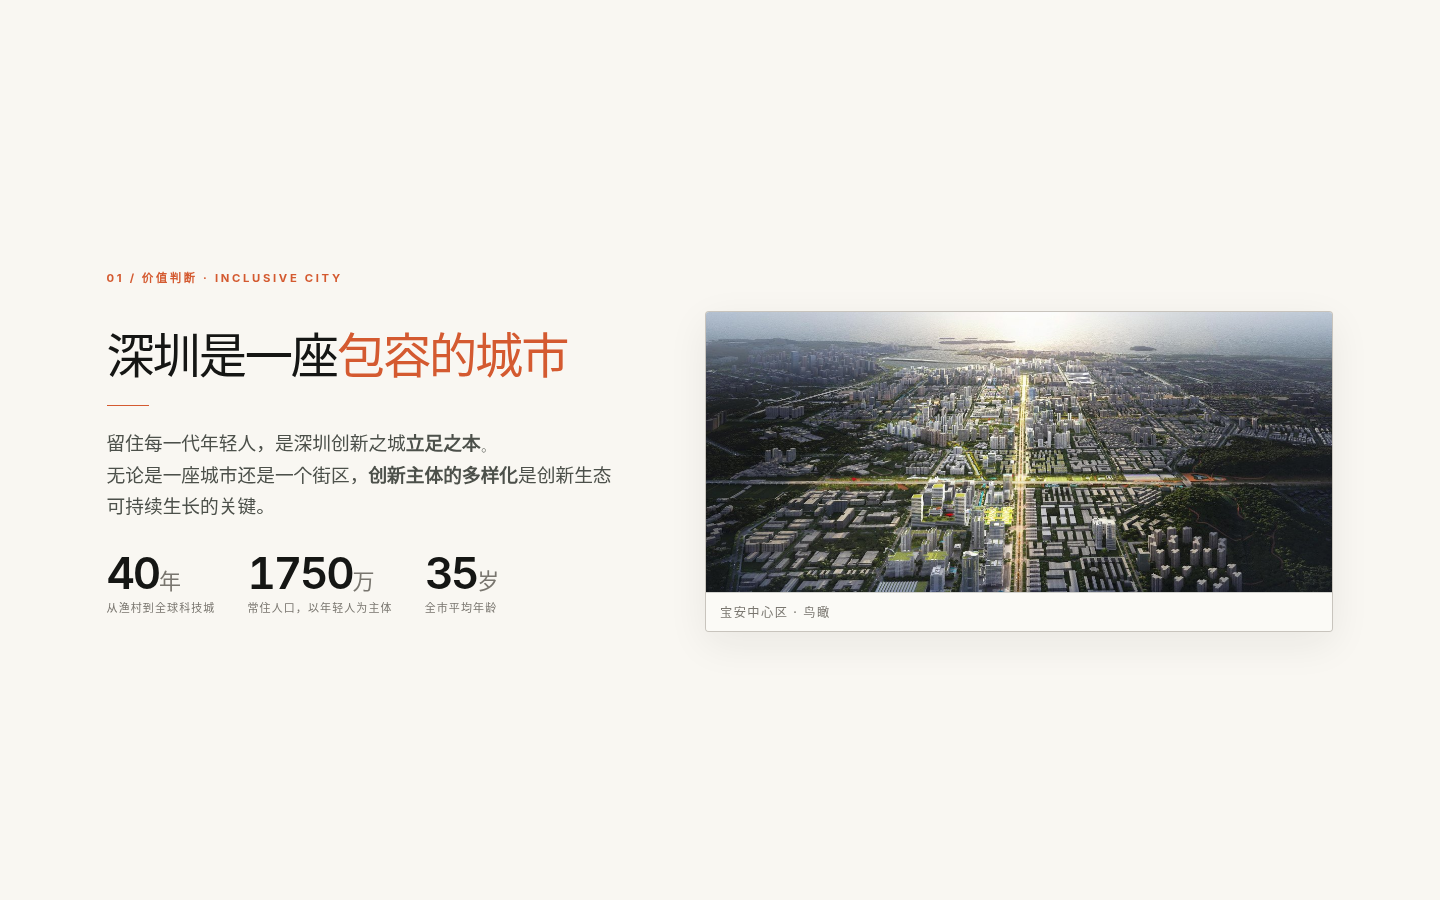
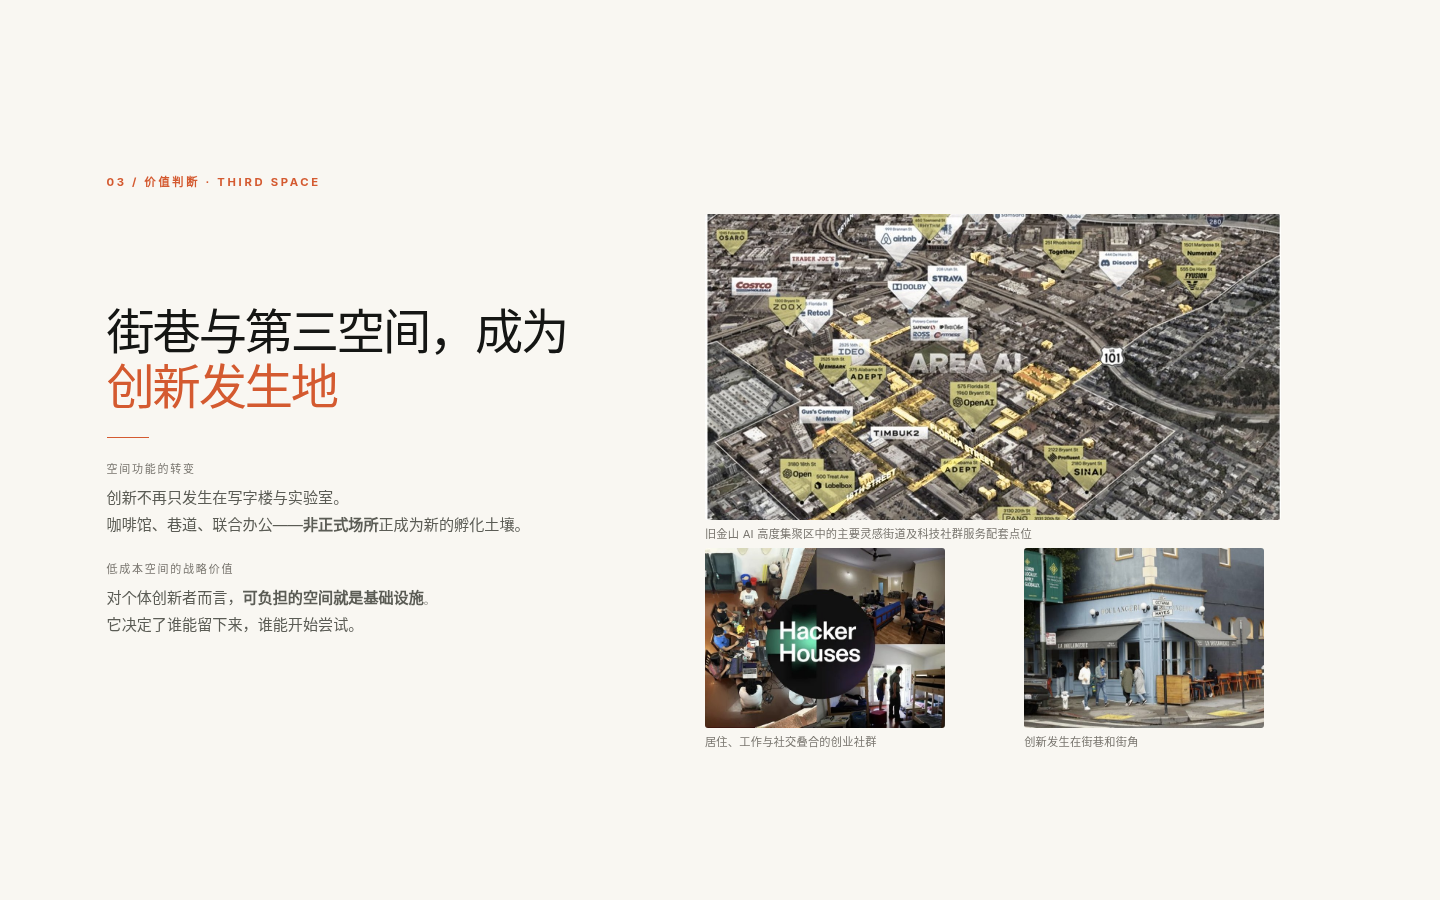
Tighten collage captions and aerial frame

diff --git a/index.html b/index.html
@@ -154,8 +154,8 @@
 
 
 .hero-visual{margin:0;border-radius:4px;overflow:hidden;border:1px solid var(--line);box-shadow:0 12px 40px rgba(35,32,25,.07);background:#efebe2;align-self:stretch;display:flex;flex-direction:column;min-height:0}
-.hero-visual img{width:100%;height:100%;object-fit:cover;display:block;min-height:280px;max-height:min(58vh,520px)}
-.hero-visual figcaption{padding:10px 14px;font-size:clamp(11px,.85vw,13px);letter-spacing:.12em;text-transform:uppercase;color:var(--muted);border-top:1px solid var(--line);background:#fbfaf6}
+.hero-visual img{width:100%;flex:1;object-fit:cover;object-position:center;display:block;min-height:280px;max-height:min(58vh,520px)}
+.hero-visual figcaption{padding:8px 12px;font-size:clamp(11px,.85vw,13px);letter-spacing:.12em;text-transform:uppercase;color:var(--muted);border-top:1px solid var(--line);background:transparent}
 
 
 .collage-aligned{display:grid;grid-template-columns:1fr 1fr;gap:10px;align-items:start}
